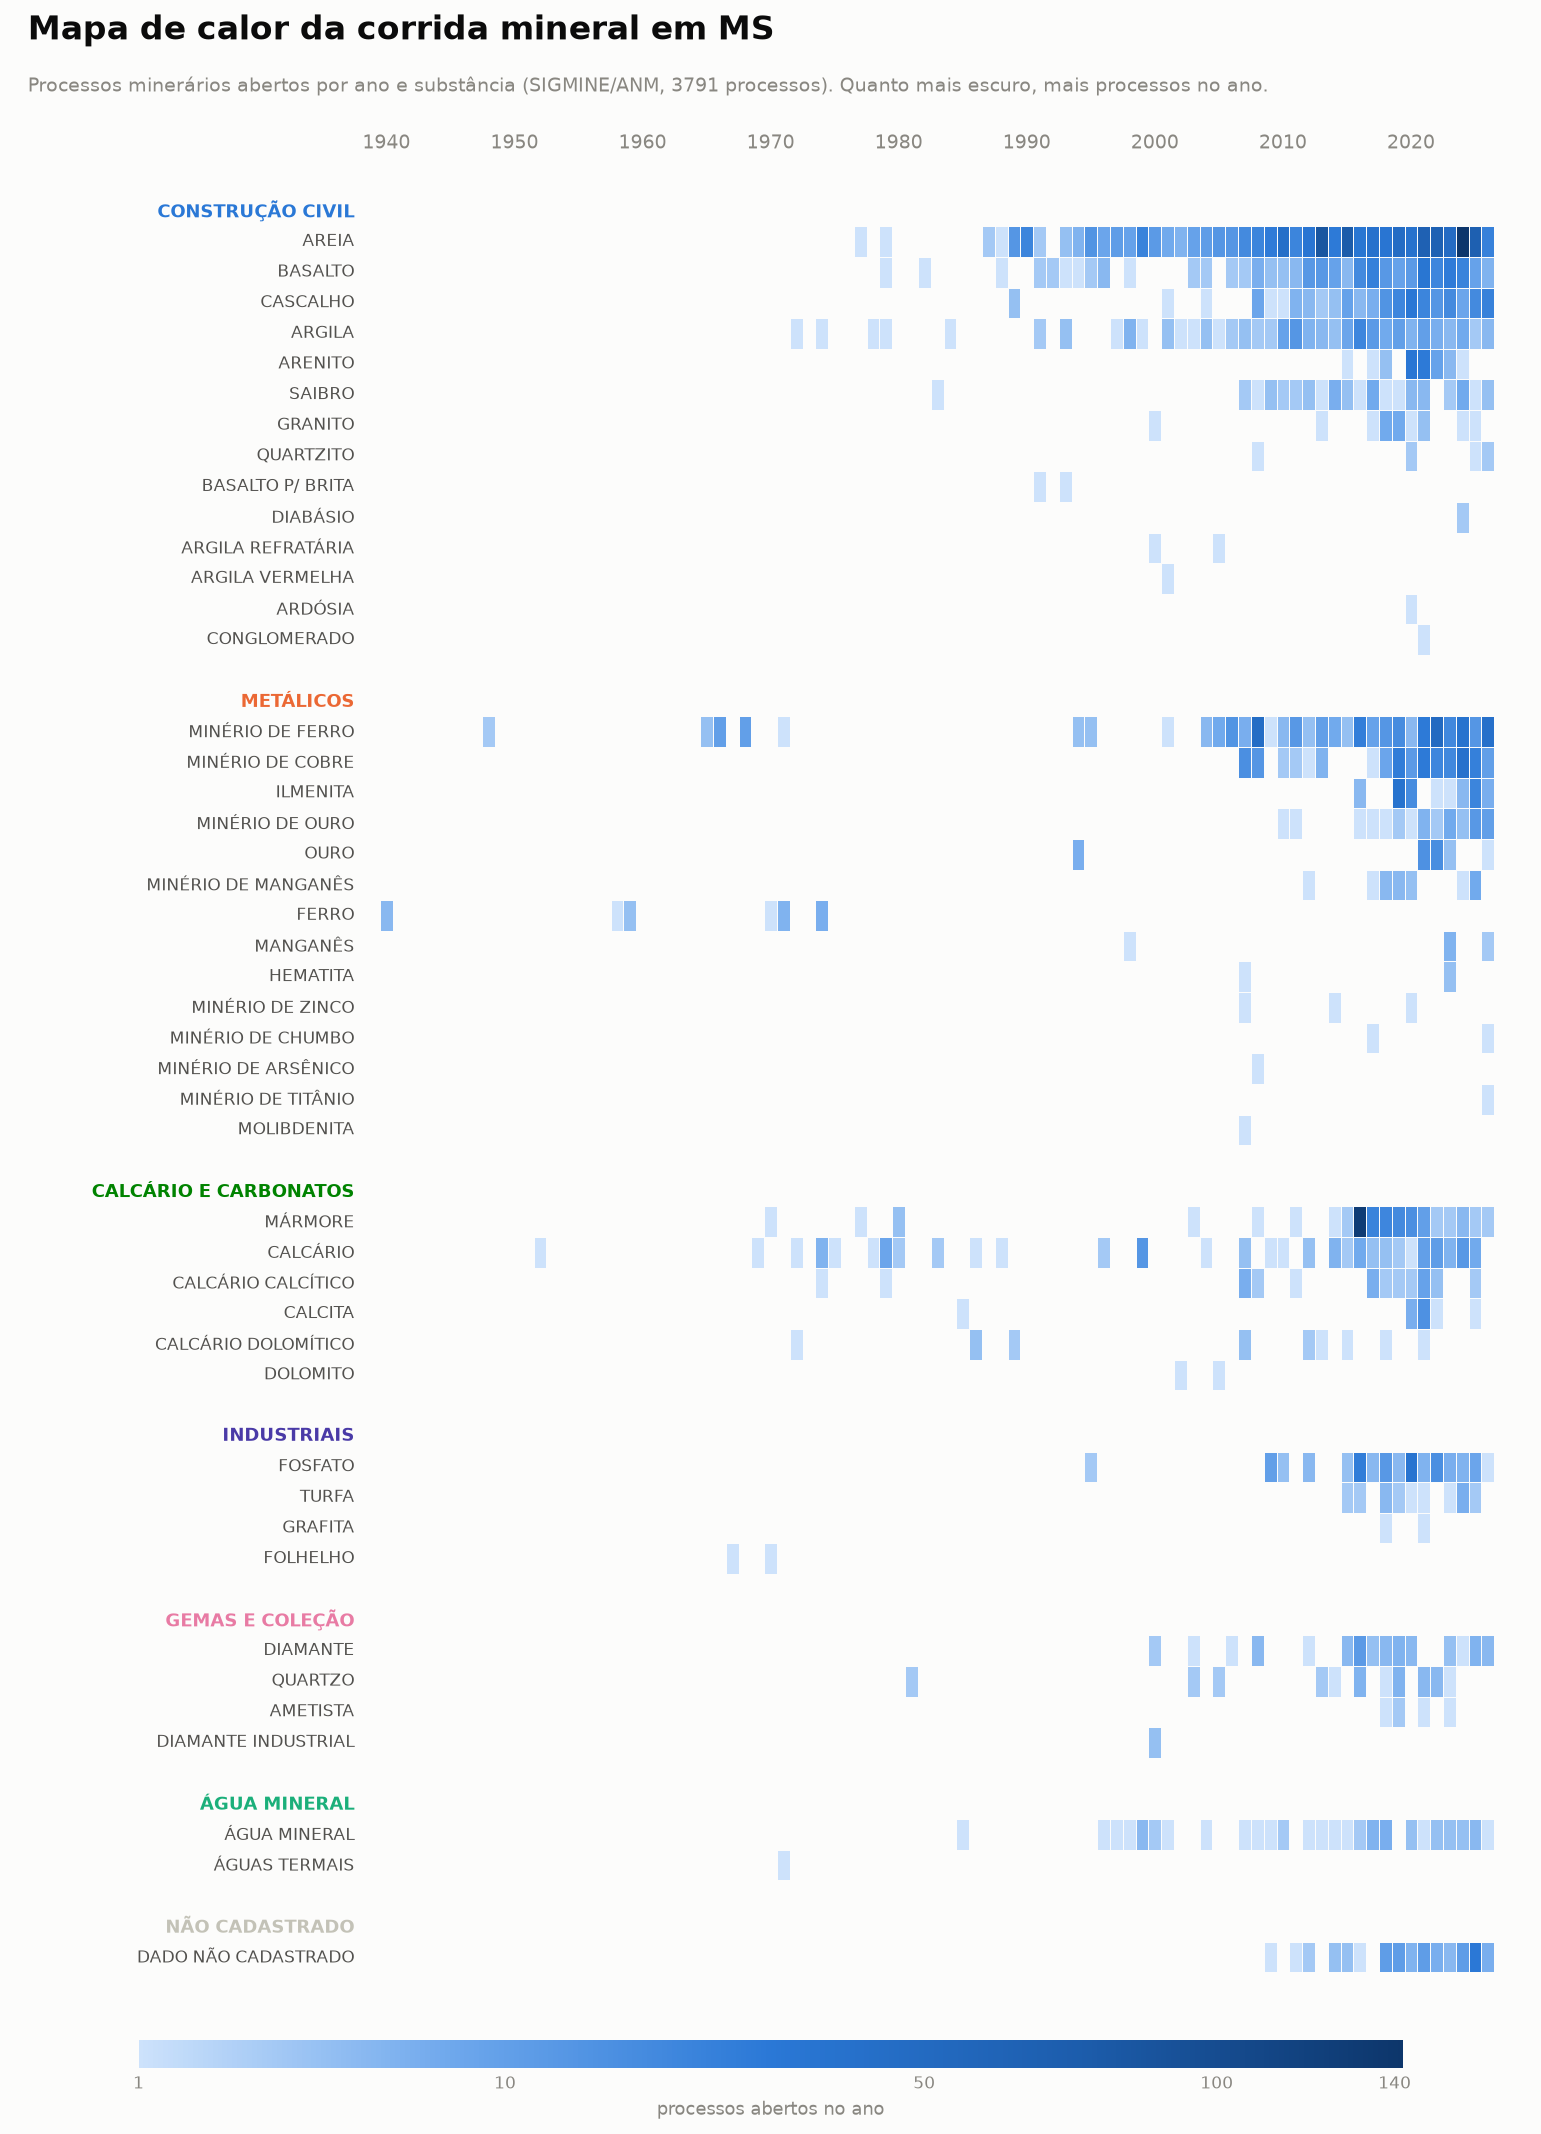
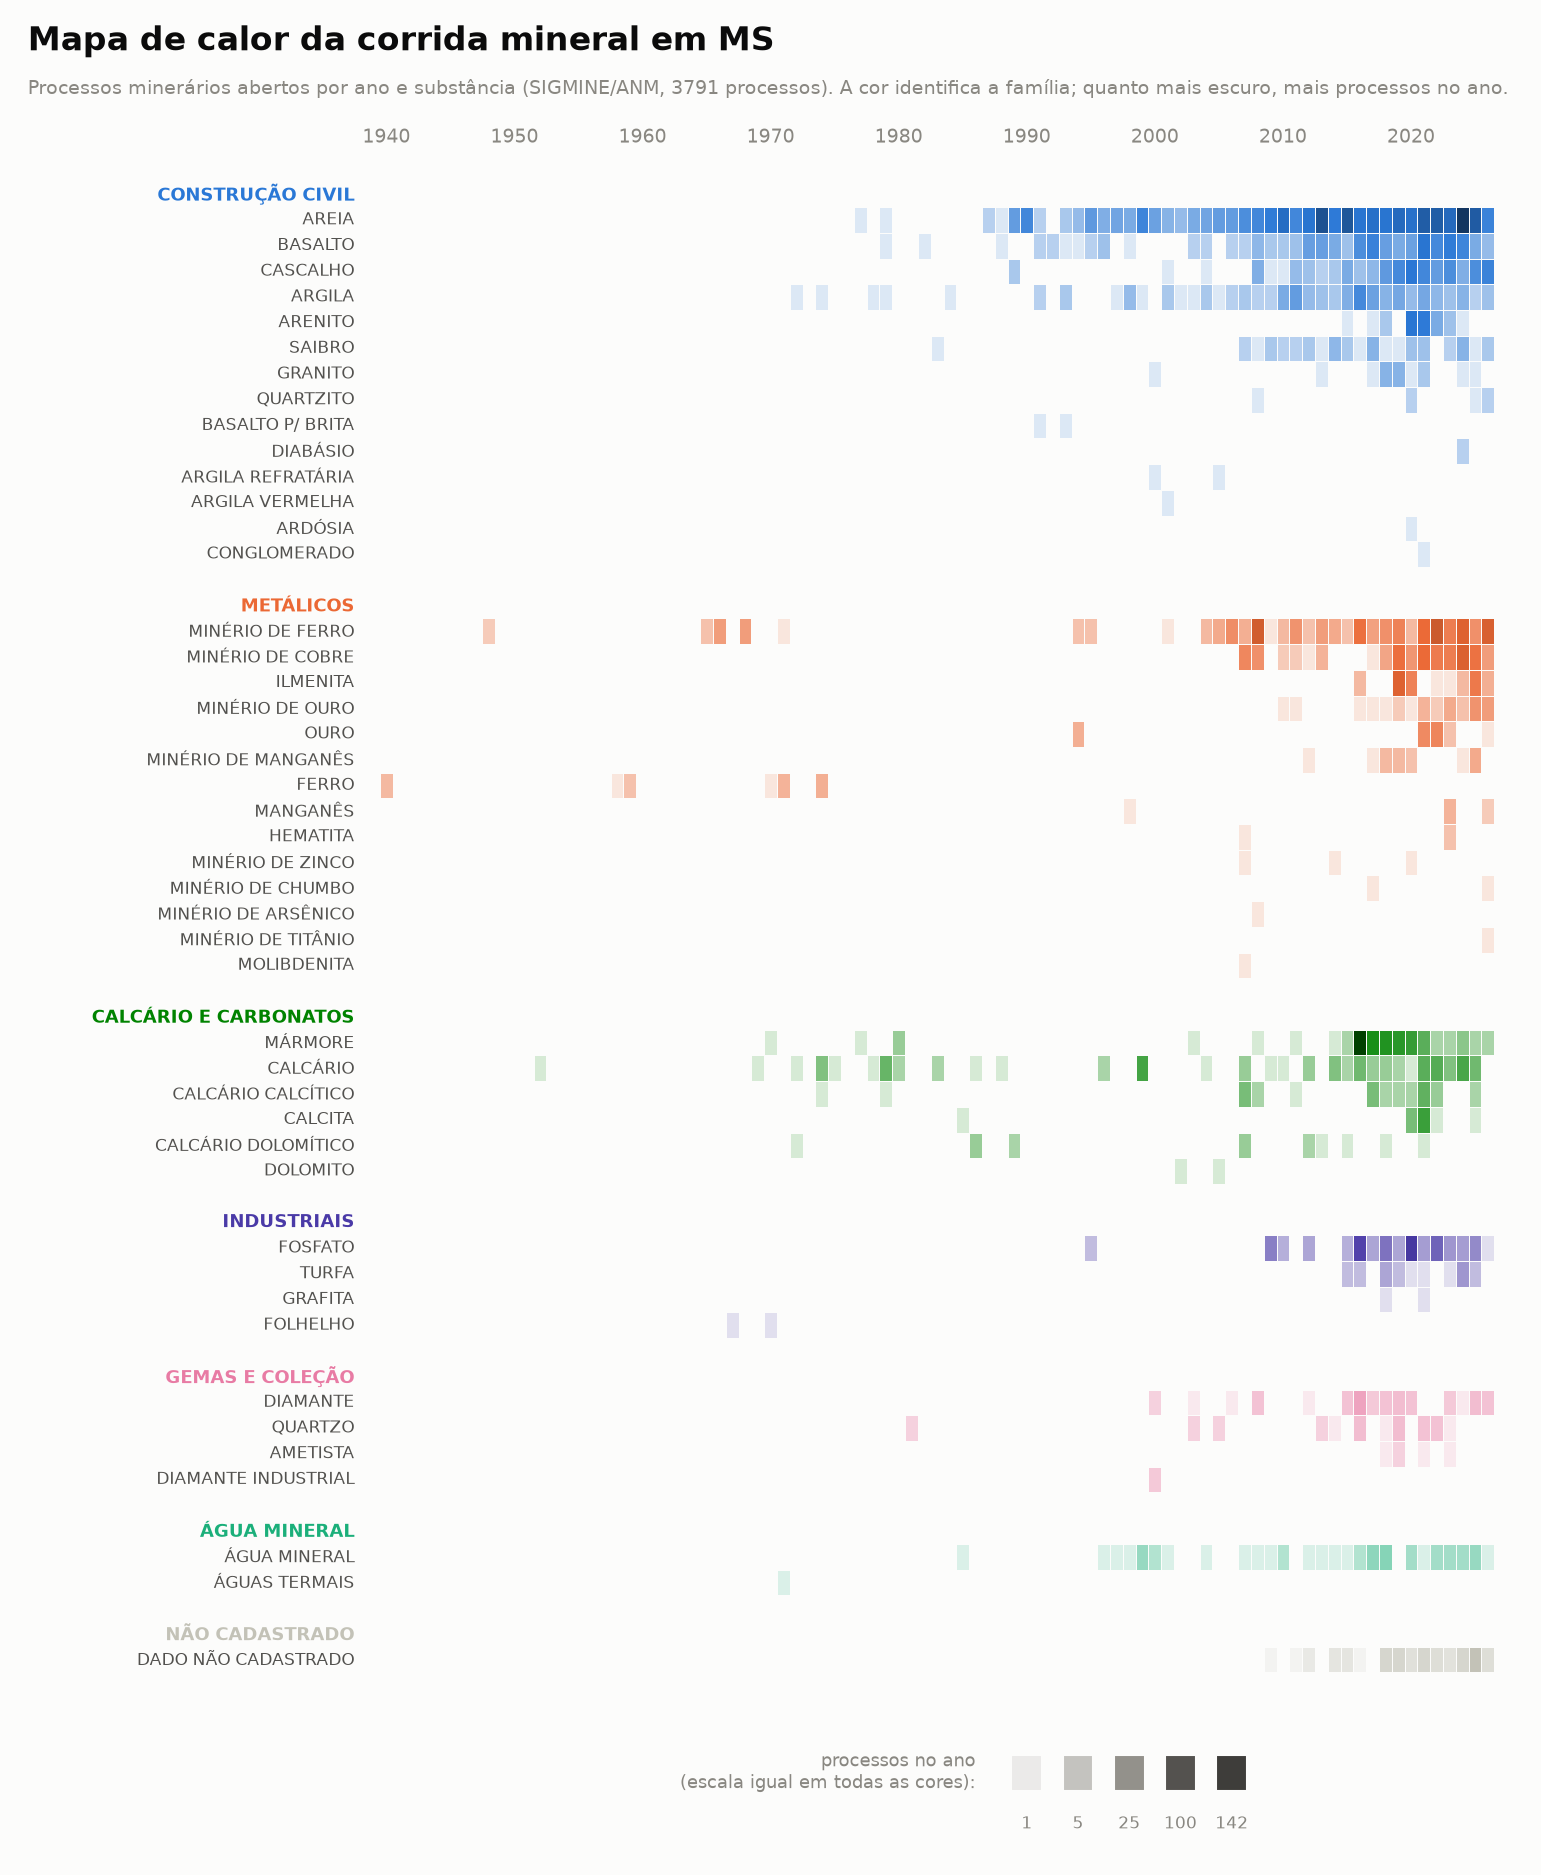
Mapa de calor com uma rampa de cor por família
Cada família de substâncias usa a sua cor (a mesma do gráfico de
bolhas), do claro ao escuro conforme o nº de processos no ano, com
escala de intensidade única e legenda em cinza no rodapé.

Claude-Session: https://claude.ai/code/session_01BHroNLyNPJ36WKYum8uamC

diff --git a/scripts/analise_temporal_sigmine.py b/scripts/analise_temporal_sigmine.py
@@ -622,37 +622,56 @@ def gerar_png_area_acumulada(dados: pd.DataFrame) -> Path:
 
 
 def gerar_png_mapa_calor(dados: pd.DataFrame) -> Path:
-    """Mapa de calor: substância × ano, intensidade = processos abertos."""
+    """Mapa de calor: substância × ano, cada família na sua cor.
+
+    A tonalidade identifica a família (como no gráfico de bolhas) e a
+    intensidade (claro → escuro) é o nº de processos abertos no ano,
+    com a MESMA escala em todas as cores.
+    """
     import numpy as np
-    from matplotlib.colors import LinearSegmentedColormap, PowerNorm
+    from matplotlib.colors import LinearSegmentedColormap, PowerNorm, to_rgb
     plt = _preparar_matplotlib()
 
     blocos = blocos_familias(dados)
     anos = list(range(int(dados["Ano_abertura"].min()), DATA_REF.year + 1))
+    bordas_x = np.array(anos + [DATA_REF.year + 1]) - 0.5
+    maximo = max(s.max() for _, _, itens in blocos for _, s in itens)
+    norma = PowerNorm(0.45, vmin=1, vmax=maximo)
 
-    # Matriz com linhas NaN para os títulos de família e o respiro
-    linhas_matriz, rotulos = [], []   # rotulos: (índice, texto, cor, é_fam)
+    def rampa(cor_base):
+        """Do quase-branco à cor escura, passando pela cor da família."""
+        base = np.array(to_rgb(cor_base))
+        clara = 0.85 * np.array(to_rgb(SUPERFICIE)) + 0.15 * base
+        escura = 0.45 * base
+        mapa = LinearSegmentedColormap.from_list(
+            "r", [clara, tuple(base), tuple(escura)])
+        mapa.set_bad(SUPERFICIE)
+        return mapa
+
+    # Cada família vira um bloco de linhas, desenhado com a sua rampa
+    rotulos, blocos_desenho = [], []   # (linha_inicial, matriz, rampa)
+    linha = 0
     for nome_fam, cor, itens in blocos:
-        rotulos.append((len(linhas_matriz), nome_fam, cor, True))
-        linhas_matriz.append([np.nan] * len(anos))
+        rotulos.append((linha, nome_fam, cor, True))
+        linha += 1
+        matriz_fam = []
         for substancia, serie in itens:
-            rotulos.append((len(linhas_matriz), substancia, "#52514e", False))
+            rotulos.append((linha + len(matriz_fam), substancia,
+                            "#52514e", False))
             valores = serie.reindex(anos, fill_value=0).astype(float)
-            linhas_matriz.append(valores.where(valores > 0).tolist())
-        linhas_matriz.append([np.nan] * len(anos))
-    matriz = np.ma.masked_invalid(np.array(linhas_matriz))
+            matriz_fam.append(valores.where(valores > 0).tolist())
+        blocos_desenho.append((linha, np.ma.masked_invalid(matriz_fam),
+                               rampa(cor)))
+        linha += len(matriz_fam) + 1
+    n = linha - 1
 
-    azuis = LinearSegmentedColormap.from_list(
-        "azuis", ["#cde2fb", "#6da7ec", "#2a78d6", "#1c5cab", "#0d366b"])
-    azuis.set_bad(SUPERFICIE)
-
-    n = matriz.shape[0]
     fig, ax = plt.subplots(figsize=(13, 0.235 * (n + 10)))
-    quadros = ax.pcolormesh(
-        np.array(anos + [DATA_REF.year + 1]) - 0.5,
-        np.arange(n + 1) - 0.5,
-        matriz, cmap=azuis, norm=PowerNorm(0.45, vmin=1, vmax=matriz.max()),
-        edgecolors=SUPERFICIE, linewidth=0.4)
+    for linha0, matriz_fam, mapa in blocos_desenho:
+        ax.pcolormesh(bordas_x,
+                      np.arange(linha0, linha0 + matriz_fam.shape[0] + 1)
+                      - 0.5,
+                      matriz_fam, cmap=mapa, norm=norma,
+                      edgecolors=SUPERFICIE, linewidth=0.4)
     ax.invert_yaxis()
     ax.set_axis_off()
 
@@ -668,17 +687,25 @@ def gerar_png_mapa_calor(dados: pd.DataFrame) -> Path:
             fontsize=16, fontweight="bold", color=TINTA)
     ax.text(1912, -3.9,
             "Processos minerários abertos por ano e substância "
-            f"(SIGMINE/ANM, {len(dados)} processos). Quanto mais escuro, "
-            "mais processos no ano.",
+            f"(SIGMINE/ANM, {len(dados)} processos). A cor identifica a "
+            "família; quanto mais escuro, mais processos no ano.",
             fontsize=9, color=MUDO)
 
-    barra = fig.colorbar(quadros, ax=ax, orientation="horizontal",
-                         fraction=0.015, pad=0.02, aspect=45,
-                         ticks=[1, 10, 50, 100, 140])
-    barra.set_label("processos abertos no ano", fontsize=8.5, color=MUDO)
-    barra.ax.tick_params(labelsize=8, colors=MUDO, length=0)
-    barra.outline.set_visible(False)
+    # Escala de intensidade (igual para todas as famílias), em cinza
+    exemplos, x0, y0 = [1, 5, 25, 100, maximo], 1990, n + 3.2
+    cinza = rampa("#898781")
+    for i, v in enumerate(exemplos):
+        x = x0 + i * 4
+        ax.add_patch(plt.Rectangle((x - 1.2, y0 - 0.5), 2.4, 1.4,
+                                   facecolor=cinza(norma(v)),
+                                   edgecolor=SUPERFICIE, clip_on=False))
+        ax.text(x, y0 + 2.2, str(int(v)), ha="center", va="center",
+                fontsize=8, color=MUDO)
+    ax.text(x0 - 4, y0 + 0.2, "processos no ano\n(escala igual em todas "
+            "as cores):", ha="right", va="center", fontsize=8.5, color=MUDO)
+
     ax.set_xlim(1911, 2029)
+    ax.set_ylim(y0 + 3.6, -7.0)
     return _salvar(plt, fig, "mapa_calor_minerios.png")
 
 
